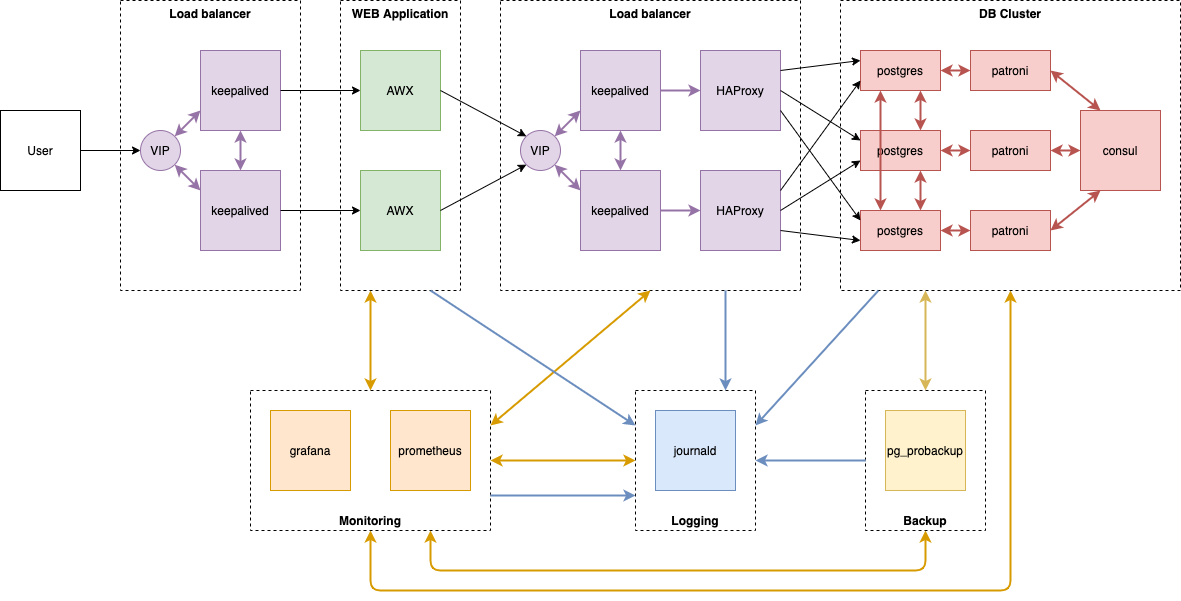
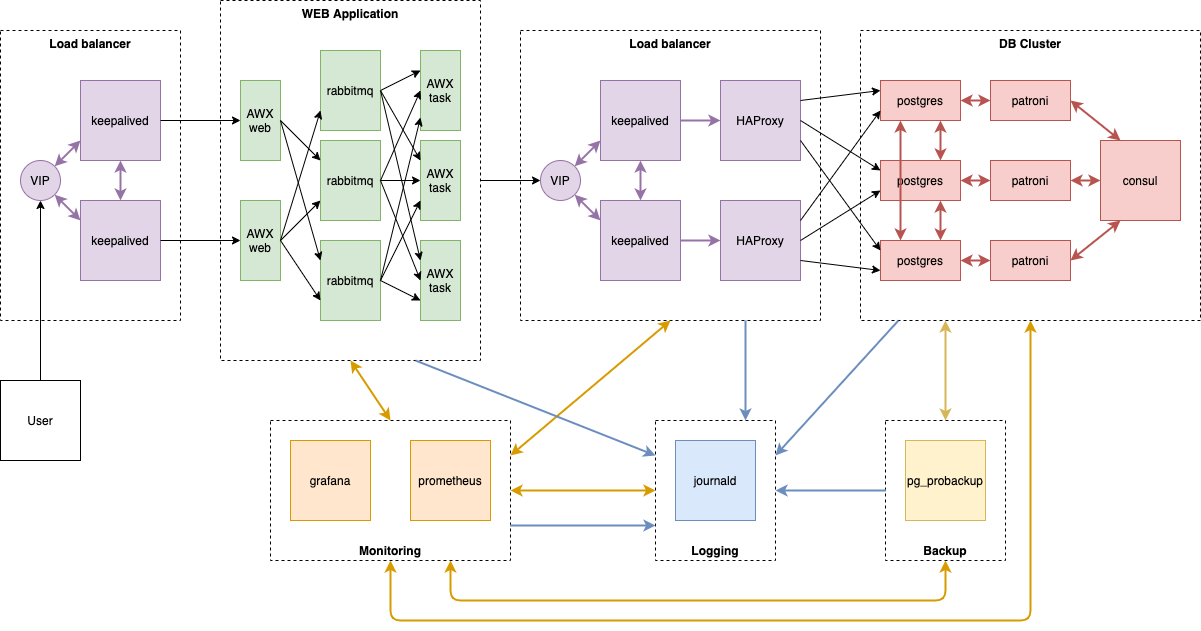
project: +some details to readme

diff --git a/project/README.md b/project/README.md
@@ -2,7 +2,8 @@
 
 ## Description
 
-The project presents very common architecture of infrastructure for a WEB application. 
+The project presents HA cluster of AWX. [AWX](https://github.com/ansible/awx) provides a web-based user interface, REST API, and task engine built on top of Ansible. It is the upstream project for Tower, a commercial derivative of AWX.
+
 The lab eviroment has:
 * Load balancers
   - keepalived
@@ -19,7 +20,7 @@ The lab eviroment has:
   - grafana
   - prometheus
 
-All of them will be connected to one network and spread over seven VMs follow the diagram:
+All of them are connected to one network and spread over seven VMs follow the diagram:
 
 ![network diagram](diagrams/network_diagram.png)
 
@@ -30,63 +31,23 @@ Functional diagram is presented below:
 Backup details
 
 The pg_probackup utility is used for that purpose. The util run by cron. Strantegy is:
-- create one full backup by ansible play-book
+- create one full backup by ansible playbook
 - create full backup every hour
 - create delta backup every 10 minutes
 - retention policy is save last five full backups
-- for each of databse servers in cluster its own backup store is created
+- for each of database servers in cluster its own backup store is created
 
 Some specific points of the lab enviroments:
+- patroni cluster is supported just one instance of consul database hosted on VM mon (it sould be fixed to achive fully HA)
 - traffic to AWX web nodes balanced by VRRP since they can work in same time for management of AWX
 - at least of three task nodes is required for AWX cluster, since additional VM just for wax task purpose is intriduced
+- last role awx_ha_recovery is required since two of three task node are not connected to the cluster and their reboot are necessary
+- monitoring part has just node_exporter and does not provide more detail monitoring information from other elemnts of lab (point for improvement)
+- centralizelogging does not get logs from AWX, Postgres (point for improvement)
 
 Thanks a lot for Ansible roles of AWX cluster to [sujiar37](https://github.com/sujiar37). I adopted material from his repo https://github.com/sujiar37/AWX-HA-InstanceGroup.
 
 Thanks a lot for webjournal app for journald-remote to [skob](https://github.com/skob). I adopted material from his repo https://github.com/skob/journal.
-
-### Checklist
-
-* [x] Common config
-* [x] Keepalived pair
-* [x] HAProxy pair
-* [x] Patroni cluster
-* [x] AWX cluster
-* [x] Postgres backup
-* [x] Firewall
-* [x] Logging
-  - [x] haproxy
-  - [x] patroni
-  - [ ] consul
-  - [ ] postgres
-  - [ ] awx
-  - [ ] pg_probackup
-* [x] Prometheus
-  - [x] node_exporter
-  - [x] haproxy
-  - [x] patroni
-  - [ ] consul
-  - [ ] postgres
-  - [ ] awx
-  - [ ] pg_probackup
-* [x] Grafana
-* [x] Final testing
-  - [x] power-off hap1
-  - [x] power-on  hap1
-  - [x] power-off hap2
-  - [x] power-on  hap2
-  - [x] power-off task
-  - [x] power-on  task
-  - [x] power-off pg1
-  - [x] power-on  pg1
-  - [x] power-off pg2
-  - [x] power-on  pg2
-  - [x] power-off pg3
-  - [x] power-on  pg3
-
-Optional:
-* [ ] IPv6
-
-## Useful links and notes
 
 ### Resources of the lab
 
@@ -114,33 +75,3 @@ Optional:
 
 * Grafana
   - [http://192.168.10.30:3000]
-
-### How to check
-
-Patroni
-```
-/usr/local/bin/patronictl -c /etc/patroni/patroni.yml list
-
-psql -U postgres -h 192.168.10.10 -p 5000
-
-postgres=# select * from pg_stat_replication;
-
-SELECT d.datname as "Name",
-pg_catalog.pg_get_userbyid(d.datdba) as "Owner"
-FROM pg_catalog.pg_database d
-WHERE d.datname = 'your_name'
-ORDER BY 1;
-```
-
-journald
-```
-journalctl -D /var/log/journal/remote/ --follow
-```
-
-Backup
-```
-pg_probackup-10 show -B /var/lib/pgbackup/  --instance 'pg1'
-pg_probackup-10 show -B /var/lib/pgbackup/  --instance 'pg2'
-pg_probackup-10 show -B /var/lib/pgbackup/  --instance 'pg3'
-pg_probackup-10 show -B /var/lib/pgbackup/
-```

diff --git a/project/working_notes.md b/project/working_notes.md
@@ -1,3 +1,78 @@
+## Useful links and notes
+
+### How to check
+
+Patroni
+```
+/usr/local/bin/patronictl -c /etc/patroni/patroni.yml list
+
+psql -U postgres -h 192.168.10.10 -p 5000
+
+postgres=# select * from pg_stat_replication;
+
+SELECT d.datname as "Name",
+pg_catalog.pg_get_userbyid(d.datdba) as "Owner"
+FROM pg_catalog.pg_database d
+WHERE d.datname = 'your_name'
+ORDER BY 1;
+```
+
+journald
+```
+journalctl -D /var/log/journal/remote/ --follow
+```
+
+Backup
+```
+pg_probackup-10 show -B /var/lib/pgbackup/  --instance 'pg1'
+pg_probackup-10 show -B /var/lib/pgbackup/  --instance 'pg2'
+pg_probackup-10 show -B /var/lib/pgbackup/  --instance 'pg3'
+pg_probackup-10 show -B /var/lib/pgbackup/
+```
+
+
+### Checklist
+
+* [x] Common config
+* [x] Keepalived pair
+* [x] HAProxy pair
+* [x] Patroni cluster
+* [x] AWX cluster
+* [x] Postgres backup
+* [x] Firewall
+* [x] Logging
+  - [x] haproxy
+  - [x] patroni
+  - [ ] consul
+  - [ ] postgres
+  - [ ] awx
+  - [ ] pg_probackup
+* [x] Prometheus
+  - [x] node_exporter
+  - [x] haproxy
+  - [x] patroni
+  - [ ] consul
+  - [ ] postgres
+  - [ ] awx
+  - [ ] pg_probackup
+* [x] Grafana
+* [x] Final testing
+  - [x] power-off hap1
+  - [x] power-on  hap1
+  - [x] power-off hap2
+  - [x] power-on  hap2
+  - [x] power-off task
+  - [x] power-on  task
+  - [x] power-off pg1
+  - [x] power-on  pg1
+  - [x] power-off pg2
+  - [x] power-on  pg2
+  - [x] power-off pg3
+  - [x] power-on  pg3
+
+Optional:
+* [ ] IPv6
+
 ### Firewall
 
 * hap1
